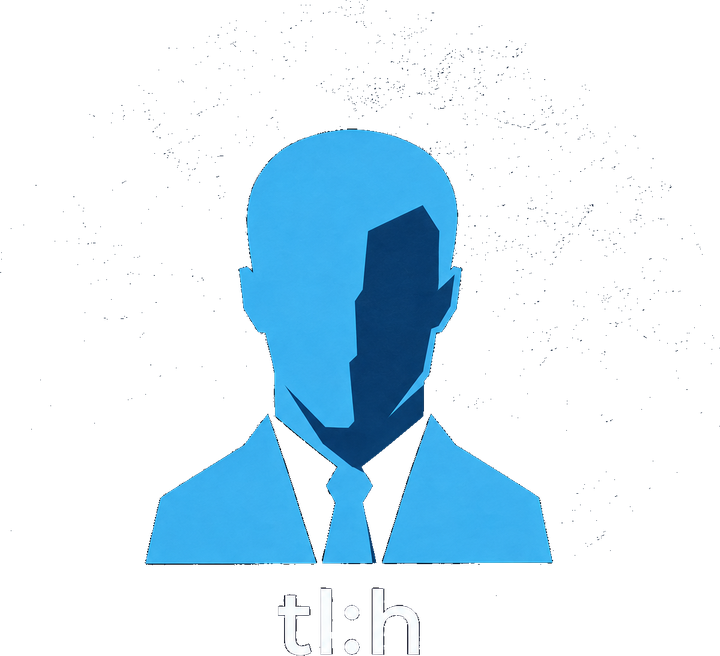
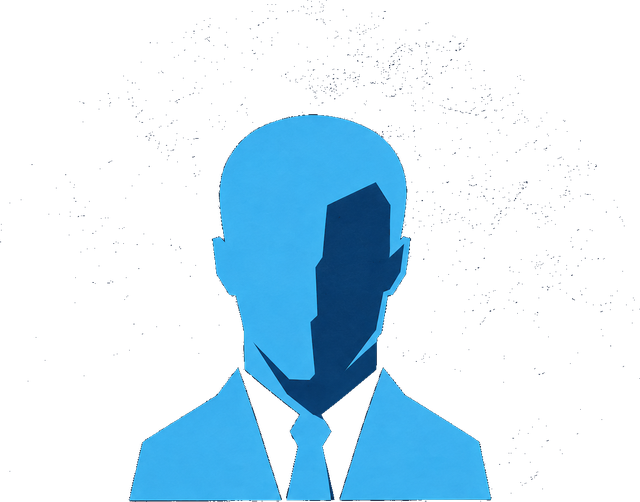
Publish site update

diff --git a/assets/style.css b/assets/style.css
@@ -575,6 +575,11 @@ footer a:hover { color: var(--cyan); }
 .foot-grid a[href*="youtube"] {
   background-image: linear-gradient(90deg, #FF0000 0%, #FF0000 43%, #FFFFFF 50%, #FF0000 57%, #FF0000 100%);
 }
+/* the Ego link gets the brand amber with a thin white glint (matches Ego's accent) */
+.nav a[href*="/ego/"],
+.foot-grid a[href*="/ego/"] {
+  background-image: linear-gradient(90deg, #FFB74D 0%, #FFB74D 43%, #FFFFFF 50%, #FFB74D 57%, #FFB74D 100%);
+}
 /* Stagger each link's phase so the shimmer reads as ONE wave travelling left-to-right across the
    whole bar (episodes -> ... -> youtube) instead of every link pulsing in sync ("duplicate" look).
    The 7s period split into ~1s steps means the wave exits the last link as it re-enters the first. */
@@ -645,14 +650,22 @@ footer a:hover { color: var(--cyan); }
 .ego-out.done::after { content: "$ _"; }
 @keyframes ego-blink { 50% { opacity: 0; } }
 
+.ego-fig {
+  position: absolute; right: 2%; bottom: 0; width: clamp(150px, 26vw, 290px); z-index: 2;
+  pointer-events: none; animation: ego-float 6.5s ease-in-out infinite;
+}
 .ego-figure {
-  position: absolute; right: 2%; bottom: -8px; width: clamp(150px, 26vw, 290px); height: auto;
+  display: block; width: 100%; height: auto;
   filter: drop-shadow(0 0 26px rgba(79,195,247,0.22));
-  animation: ego-float 6.5s ease-in-out infinite; pointer-events: none; z-index: 2;
+}
+.ego-name {
+  display: block; text-align: center; font-family: "Oswald", sans-serif;
+  font-weight: 700; text-transform: lowercase; letter-spacing: 1px; color: var(--white);
+  font-size: clamp(1.1rem, 3.4vw, 1.6rem); margin-top: 2px;
 }
 @keyframes ego-float {
   0%, 100% { transform: translateY(0) rotate(-1deg); }
-  50%      { transform: translateY(-14px) rotate(1.2deg); }
+  50%      { transform: translateY(-12px) rotate(1.2deg); }
 }
 
 .ego-ask {
@@ -667,10 +680,12 @@ footer a:hover { color: var(--cyan); }
 .ego-ask p { color: var(--gray); max-width: 640px; }
 
 @media (max-width: 760px) {
-  .ego-term .ego-out { padding-right: 20px; min-height: 320px; padding-bottom: 150px; }
-  .ego-figure { width: 120px; right: 6%; bottom: 6px; }
+  /* keep the typed text clear of the figure, and reserve enough height that the whole figure
+     (image + name) sits INSIDE the stage instead of hanging below the frame */
+  .ego-term .ego-out { padding-right: 20px; min-height: 320px; padding-bottom: 200px; }
+  .ego-fig { width: 150px; right: 5%; bottom: 10px; }
 }
 @media (prefers-reduced-motion: reduce) {
-  .ego-figure { animation: none; }
+  .ego-fig { animation: none; }
   .ego-out::after { animation: none; }
 }

diff --git a/ego/index.html b/ego/index.html
@@ -51,12 +51,12 @@
   <link rel="preconnect" href="https://fonts.googleapis.com" />
   <link rel="preconnect" href="https://fonts.gstatic.com" crossorigin />
   <link href="https://fonts.googleapis.com/css2?family=Oswald:wght@500;700&family=Inter:wght@400;500;600&family=JetBrains+Mono:wght@400;500&display=swap" rel="stylesheet" />
-  <link rel="stylesheet" href="/assets/style.css?v=2e12df62" />
+  <link rel="stylesheet" href="/assets/style.css?v=88c50bbf" />
   <link rel="icon" href="/favicon.ico" sizes="any" />
   <link rel="icon" type="image/png" sizes="32x32" href="/favicon-32.png" />
   <link rel="icon" type="image/png" sizes="16x16" href="/favicon-16.png" />
   <link rel="apple-touch-icon" href="/apple-touch-icon.png" />
-  <script src="/assets/fx.js?v=2e12df62" defer></script>
+  <script src="/assets/fx.js?v=88c50bbf" defer></script>
 </head>
 <body>
   <header class="topbar">
@@ -86,7 +86,10 @@
             <span>ego@threatlevelhuman: ~</span></div>
           <pre class="ego-out" id="ego-out" aria-live="polite"></pre>
         </div>
-        <img class="ego-figure" src="/assets/ego-figure.png" alt="Ego, the faceless threat level human mascot" />
+        <div class="ego-fig">
+          <img class="ego-figure" src="/assets/ego-figure.png?v=88c50bbf" alt="Ego, the faceless threat level human mascot" />
+          <span class="ego-name">ego</span>
+        </div>
       </section>
       <noscript>
         <p class="lead">Hi. People call me Ego. I do not have a face. It is blank on purpose, because in
@@ -149,7 +152,7 @@
   "inLanguage": "en"
 }
   </script>
-  <script src="/assets/ego.js?v=2e12df62" defer></script>
+  <script src="/assets/ego.js?v=88c50bbf" defer></script>
 
   <footer>
     <div class="wrap foot-grid">

diff --git a/whoami/index.html b/whoami/index.html
@@ -51,12 +51,12 @@
   <link rel="preconnect" href="https://fonts.googleapis.com" />
   <link rel="preconnect" href="https://fonts.gstatic.com" crossorigin />
   <link href="https://fonts.googleapis.com/css2?family=Oswald:wght@500;700&family=Inter:wght@400;500;600&family=JetBrains+Mono:wght@400;500&display=swap" rel="stylesheet" />
-  <link rel="stylesheet" href="/assets/style.css?v=2e12df62" />
+  <link rel="stylesheet" href="/assets/style.css?v=88c50bbf" />
   <link rel="icon" href="/favicon.ico" sizes="any" />
   <link rel="icon" type="image/png" sizes="32x32" href="/favicon-32.png" />
   <link rel="icon" type="image/png" sizes="16x16" href="/favicon-16.png" />
   <link rel="apple-touch-icon" href="/apple-touch-icon.png" />
-  <script src="/assets/fx.js?v=2e12df62" defer></script>
+  <script src="/assets/fx.js?v=88c50bbf" defer></script>
 </head>
 <body>
   <header class="topbar">
@@ -145,7 +145,7 @@
   "inLanguage": "en"
 }
   </script>
-  <script src="/assets/whoami.js?v=2e12df62" defer></script>
+  <script src="/assets/whoami.js?v=88c50bbf" defer></script>
 
   <footer>
     <div class="wrap foot-grid">

diff --git a/blog/clickfix.html b/blog/clickfix.html
@@ -111,12 +111,12 @@
   <link rel="preconnect" href="https://fonts.googleapis.com" />
   <link rel="preconnect" href="https://fonts.gstatic.com" crossorigin />
   <link href="https://fonts.googleapis.com/css2?family=Oswald:wght@500;700&family=Inter:wght@400;500;600&family=JetBrains+Mono:wght@400;500&display=swap" rel="stylesheet" />
-  <link rel="stylesheet" href="../assets/style.css?v=2e12df62" />
+  <link rel="stylesheet" href="../assets/style.css?v=88c50bbf" />
   <link rel="icon" href="/favicon.ico" sizes="any" />
   <link rel="icon" type="image/png" sizes="32x32" href="/favicon-32.png" />
   <link rel="icon" type="image/png" sizes="16x16" href="/favicon-16.png" />
   <link rel="apple-touch-icon" href="/apple-touch-icon.png" />
-  <script src="/assets/fx.js?v=2e12df62" defer></script>
+  <script src="/assets/fx.js?v=88c50bbf" defer></script>
 </head>
 <body>
   <header class="topbar">

diff --git a/blog/cns-may-2026.html b/blog/cns-may-2026.html
@@ -111,12 +111,12 @@
   <link rel="preconnect" href="https://fonts.googleapis.com" />
   <link rel="preconnect" href="https://fonts.gstatic.com" crossorigin />
   <link href="https://fonts.googleapis.com/css2?family=Oswald:wght@500;700&family=Inter:wght@400;500;600&family=JetBrains+Mono:wght@400;500&display=swap" rel="stylesheet" />
-  <link rel="stylesheet" href="../assets/style.css?v=2e12df62" />
+  <link rel="stylesheet" href="../assets/style.css?v=88c50bbf" />
   <link rel="icon" href="/favicon.ico" sizes="any" />
   <link rel="icon" type="image/png" sizes="32x32" href="/favicon-32.png" />
   <link rel="icon" type="image/png" sizes="16x16" href="/favicon-16.png" />
   <link rel="apple-touch-icon" href="/apple-touch-icon.png" />
-  <script src="/assets/fx.js?v=2e12df62" defer></script>
+  <script src="/assets/fx.js?v=88c50bbf" defer></script>
 </head>
 <body>
   <header class="topbar">

diff --git a/blog/ghost-stadium.html b/blog/ghost-stadium.html
@@ -111,12 +111,12 @@
   <link rel="preconnect" href="https://fonts.googleapis.com" />
   <link rel="preconnect" href="https://fonts.gstatic.com" crossorigin />
   <link href="https://fonts.googleapis.com/css2?family=Oswald:wght@500;700&family=Inter:wght@400;500;600&family=JetBrains+Mono:wght@400;500&display=swap" rel="stylesheet" />
-  <link rel="stylesheet" href="../assets/style.css?v=2e12df62" />
+  <link rel="stylesheet" href="../assets/style.css?v=88c50bbf" />
   <link rel="icon" href="/favicon.ico" sizes="any" />
   <link rel="icon" type="image/png" sizes="32x32" href="/favicon-32.png" />
   <link rel="icon" type="image/png" sizes="16x16" href="/favicon-16.png" />
   <link rel="apple-touch-icon" href="/apple-touch-icon.png" />
-  <script src="/assets/fx.js?v=2e12df62" defer></script>
+  <script src="/assets/fx.js?v=88c50bbf" defer></script>
 </head>
 <body>
   <header class="topbar">

diff --git a/blog/ghostwriter-playbook.html b/blog/ghostwriter-playbook.html
@@ -111,12 +111,12 @@
   <link rel="preconnect" href="https://fonts.googleapis.com" />
   <link rel="preconnect" href="https://fonts.gstatic.com" crossorigin />
   <link href="https://fonts.googleapis.com/css2?family=Oswald:wght@500;700&family=Inter:wght@400;500;600&family=JetBrains+Mono:wght@400;500&display=swap" rel="stylesheet" />
-  <link rel="stylesheet" href="../assets/style.css?v=2e12df62" />
+  <link rel="stylesheet" href="../assets/style.css?v=88c50bbf" />
   <link rel="icon" href="/favicon.ico" sizes="any" />
   <link rel="icon" type="image/png" sizes="32x32" href="/favicon-32.png" />
   <link rel="icon" type="image/png" sizes="16x16" href="/favicon-16.png" />
   <link rel="apple-touch-icon" href="/apple-touch-icon.png" />
-  <script src="/assets/fx.js?v=2e12df62" defer></script>
+  <script src="/assets/fx.js?v=88c50bbf" defer></script>
 </head>
 <body>
   <header class="topbar">

diff --git a/blog/index.html b/blog/index.html
@@ -52,12 +52,12 @@
   <link rel="preconnect" href="https://fonts.googleapis.com" />
   <link rel="preconnect" href="https://fonts.gstatic.com" crossorigin />
   <link href="https://fonts.googleapis.com/css2?family=Oswald:wght@500;700&family=Inter:wght@400;500;600&family=JetBrains+Mono:wght@400;500&display=swap" rel="stylesheet" />
-  <link rel="stylesheet" href="../assets/style.css?v=2e12df62" />
+  <link rel="stylesheet" href="../assets/style.css?v=88c50bbf" />
   <link rel="icon" href="/favicon.ico" sizes="any" />
   <link rel="icon" type="image/png" sizes="32x32" href="/favicon-32.png" />
   <link rel="icon" type="image/png" sizes="16x16" href="/favicon-16.png" />
   <link rel="apple-touch-icon" href="/apple-touch-icon.png" />
-  <script src="/assets/fx.js?v=2e12df62" defer></script>
+  <script src="/assets/fx.js?v=88c50bbf" defer></script>
 </head>
 <body>
   <header class="topbar">

diff --git a/blog/mfa-under-siege.html b/blog/mfa-under-siege.html
@@ -111,12 +111,12 @@
   <link rel="preconnect" href="https://fonts.googleapis.com" />
   <link rel="preconnect" href="https://fonts.gstatic.com" crossorigin />
   <link href="https://fonts.googleapis.com/css2?family=Oswald:wght@500;700&family=Inter:wght@400;500;600&family=JetBrains+Mono:wght@400;500&display=swap" rel="stylesheet" />
-  <link rel="stylesheet" href="../assets/style.css?v=2e12df62" />
+  <link rel="stylesheet" href="../assets/style.css?v=88c50bbf" />
   <link rel="icon" href="/favicon.ico" sizes="any" />
   <link rel="icon" type="image/png" sizes="32x32" href="/favicon-32.png" />
   <link rel="icon" type="image/png" sizes="16x16" href="/favicon-16.png" />
   <link rel="apple-touch-icon" href="/apple-touch-icon.png" />
-  <script src="/assets/fx.js?v=2e12df62" defer></script>
+  <script src="/assets/fx.js?v=88c50bbf" defer></script>
 </head>
 <body>
   <header class="topbar">

diff --git a/episodes/clickfix.html b/episodes/clickfix.html
@@ -106,12 +106,12 @@
   <link rel="preconnect" href="https://fonts.googleapis.com" />
   <link rel="preconnect" href="https://fonts.gstatic.com" crossorigin />
   <link href="https://fonts.googleapis.com/css2?family=Oswald:wght@500;700&family=Inter:wght@400;500;600&family=JetBrains+Mono:wght@400;500&display=swap" rel="stylesheet" />
-  <link rel="stylesheet" href="../assets/style.css?v=2e12df62" />
+  <link rel="stylesheet" href="../assets/style.css?v=88c50bbf" />
   <link rel="icon" href="/favicon.ico" sizes="any" />
   <link rel="icon" type="image/png" sizes="32x32" href="/favicon-32.png" />
   <link rel="icon" type="image/png" sizes="16x16" href="/favicon-16.png" />
   <link rel="apple-touch-icon" href="/apple-touch-icon.png" />
-  <script src="/assets/fx.js?v=2e12df62" defer></script>
+  <script src="/assets/fx.js?v=88c50bbf" defer></script>
 </head>
 <body>
   <header class="topbar">

diff --git a/episodes/cybersecurity-news-summary-may-2026.html b/episodes/cybersecurity-news-summary-may-2026.html
@@ -106,12 +106,12 @@
   <link rel="preconnect" href="https://fonts.googleapis.com" />
   <link rel="preconnect" href="https://fonts.gstatic.com" crossorigin />
   <link href="https://fonts.googleapis.com/css2?family=Oswald:wght@500;700&family=Inter:wght@400;500;600&family=JetBrains+Mono:wght@400;500&display=swap" rel="stylesheet" />
-  <link rel="stylesheet" href="../assets/style.css?v=2e12df62" />
+  <link rel="stylesheet" href="../assets/style.css?v=88c50bbf" />
   <link rel="icon" href="/favicon.ico" sizes="any" />
   <link rel="icon" type="image/png" sizes="32x32" href="/favicon-32.png" />
   <link rel="icon" type="image/png" sizes="16x16" href="/favicon-16.png" />
   <link rel="apple-touch-icon" href="/apple-touch-icon.png" />
-  <script src="/assets/fx.js?v=2e12df62" defer></script>
+  <script src="/assets/fx.js?v=88c50bbf" defer></script>
 </head>
 <body>
   <header class="topbar">

diff --git a/episodes/ghost-stadium.html b/episodes/ghost-stadium.html
@@ -106,12 +106,12 @@
   <link rel="preconnect" href="https://fonts.googleapis.com" />
   <link rel="preconnect" href="https://fonts.gstatic.com" crossorigin />
   <link href="https://fonts.googleapis.com/css2?family=Oswald:wght@500;700&family=Inter:wght@400;500;600&family=JetBrains+Mono:wght@400;500&display=swap" rel="stylesheet" />
-  <link rel="stylesheet" href="../assets/style.css?v=2e12df62" />
+  <link rel="stylesheet" href="../assets/style.css?v=88c50bbf" />
   <link rel="icon" href="/favicon.ico" sizes="any" />
   <link rel="icon" type="image/png" sizes="32x32" href="/favicon-32.png" />
   <link rel="icon" type="image/png" sizes="16x16" href="/favicon-16.png" />
   <link rel="apple-touch-icon" href="/apple-touch-icon.png" />
-  <script src="/assets/fx.js?v=2e12df62" defer></script>
+  <script src="/assets/fx.js?v=88c50bbf" defer></script>
 </head>
 <body>
   <header class="topbar">